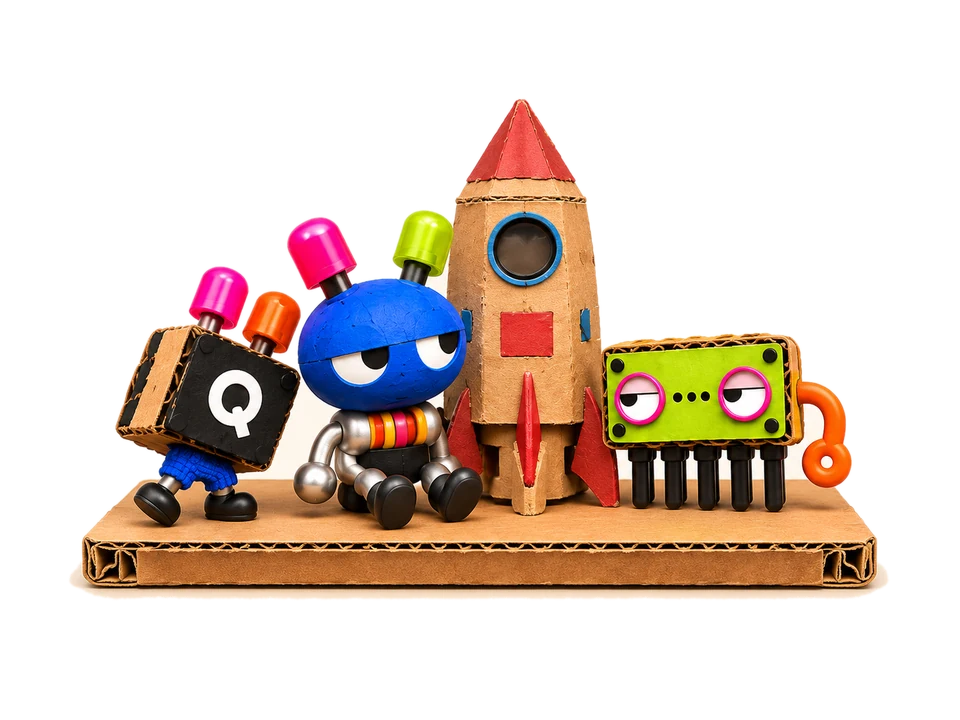
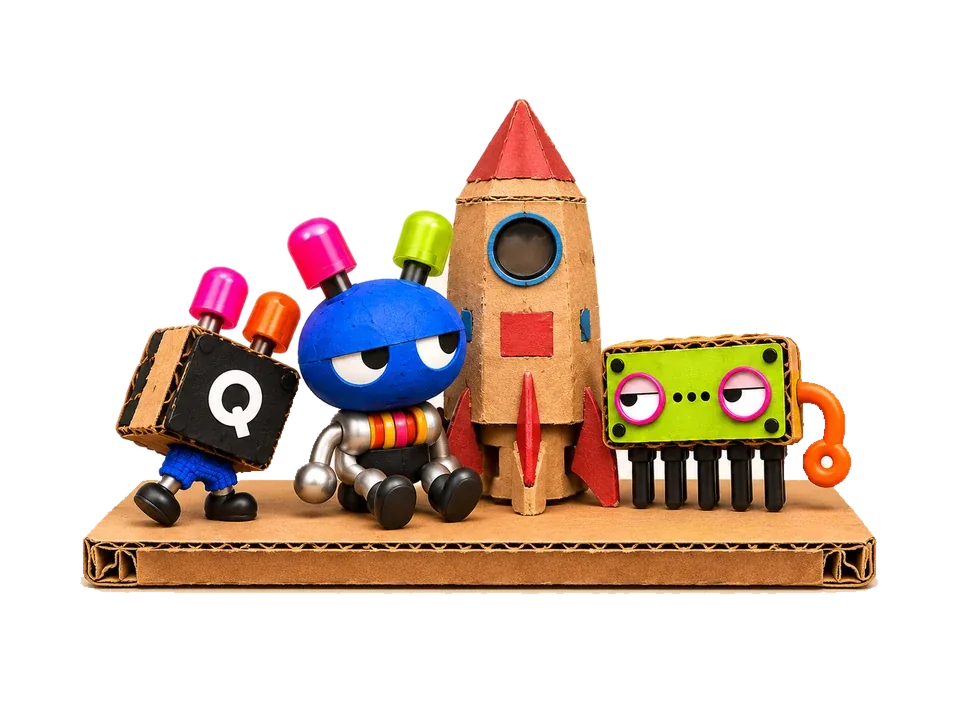
Remove remaining cream background from Tools rocket mascot hero

diff --git a/website/qwertylabs/tools.html b/website/qwertylabs/tools.html
@@ -60,7 +60,7 @@
                   <h1><span class="hero-title">tools</span><span class="hero-tagline">we make stuff with</span></h1>
                 </div>
               </div>
-              <img class="mascots" src="img/mascot-ready/MS01-R01-C04-cardboard-rocket.webp?v=20261113" alt="Q Key, D1 and Six Pin making a cardboard rocket" fetchpriority="high">
+              <img class="mascots" src="img/mascot-ready/MS01-R01-C04-cardboard-rocket.webp?v=20261113-transparent" alt="Q Key, D1 and Six Pin making a cardboard rocket" fetchpriority="high">
             </section>
 
             <!-- Tools intro: unchanged photo collage and paper-card components -->
